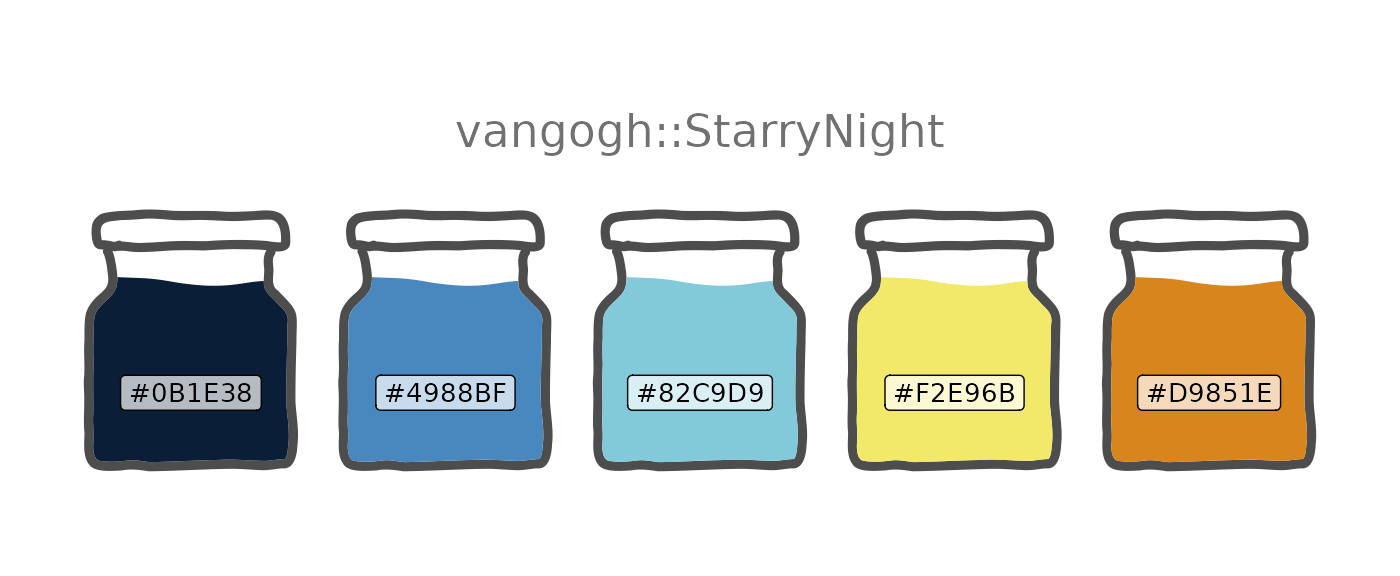
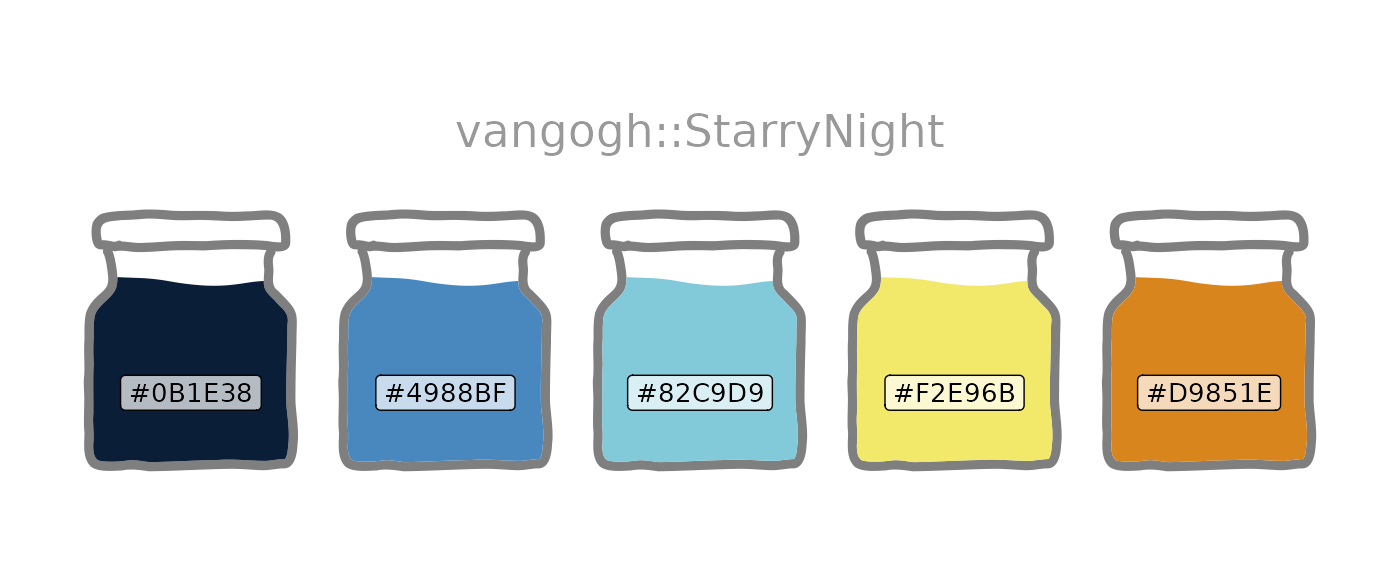
Deploying to gh-pages from @ cgoo4/ggfoundry@4e42b64b89a2f51bd92dcf237fbd6492199fa7f1 🚀

Changed region(s): [[0.2457, 0.3438, 0.9521, 0.8438], [0.0614, 0.3438, 0.2457, 0.8438], [0.3071, 0.1875, 0.6757, 0.2812]]

diff --git a/reference/display_palette.html b/reference/display_palette.html
@@ -76,7 +76,7 @@ selected fillable shape.</p>
 <span>  <span class="va">fill</span>,</span>
 <span>  <span class="va">n</span>,</span>
 <span>  <span class="va">pal_name</span>,</span>
-<span>  colour <span class="op">=</span> <span class="st">"grey30"</span>,</span>
+<span>  colour <span class="op">=</span> <span class="st">"grey50"</span>,</span>
 <span>  color <span class="op">=</span> <span class="va">colour</span>,</span>
 <span>  shape <span class="op">=</span> <span class="st">"jar"</span>,</span>
 <span>  shape_size <span class="op">=</span> <span class="fl">1</span>,</span>
